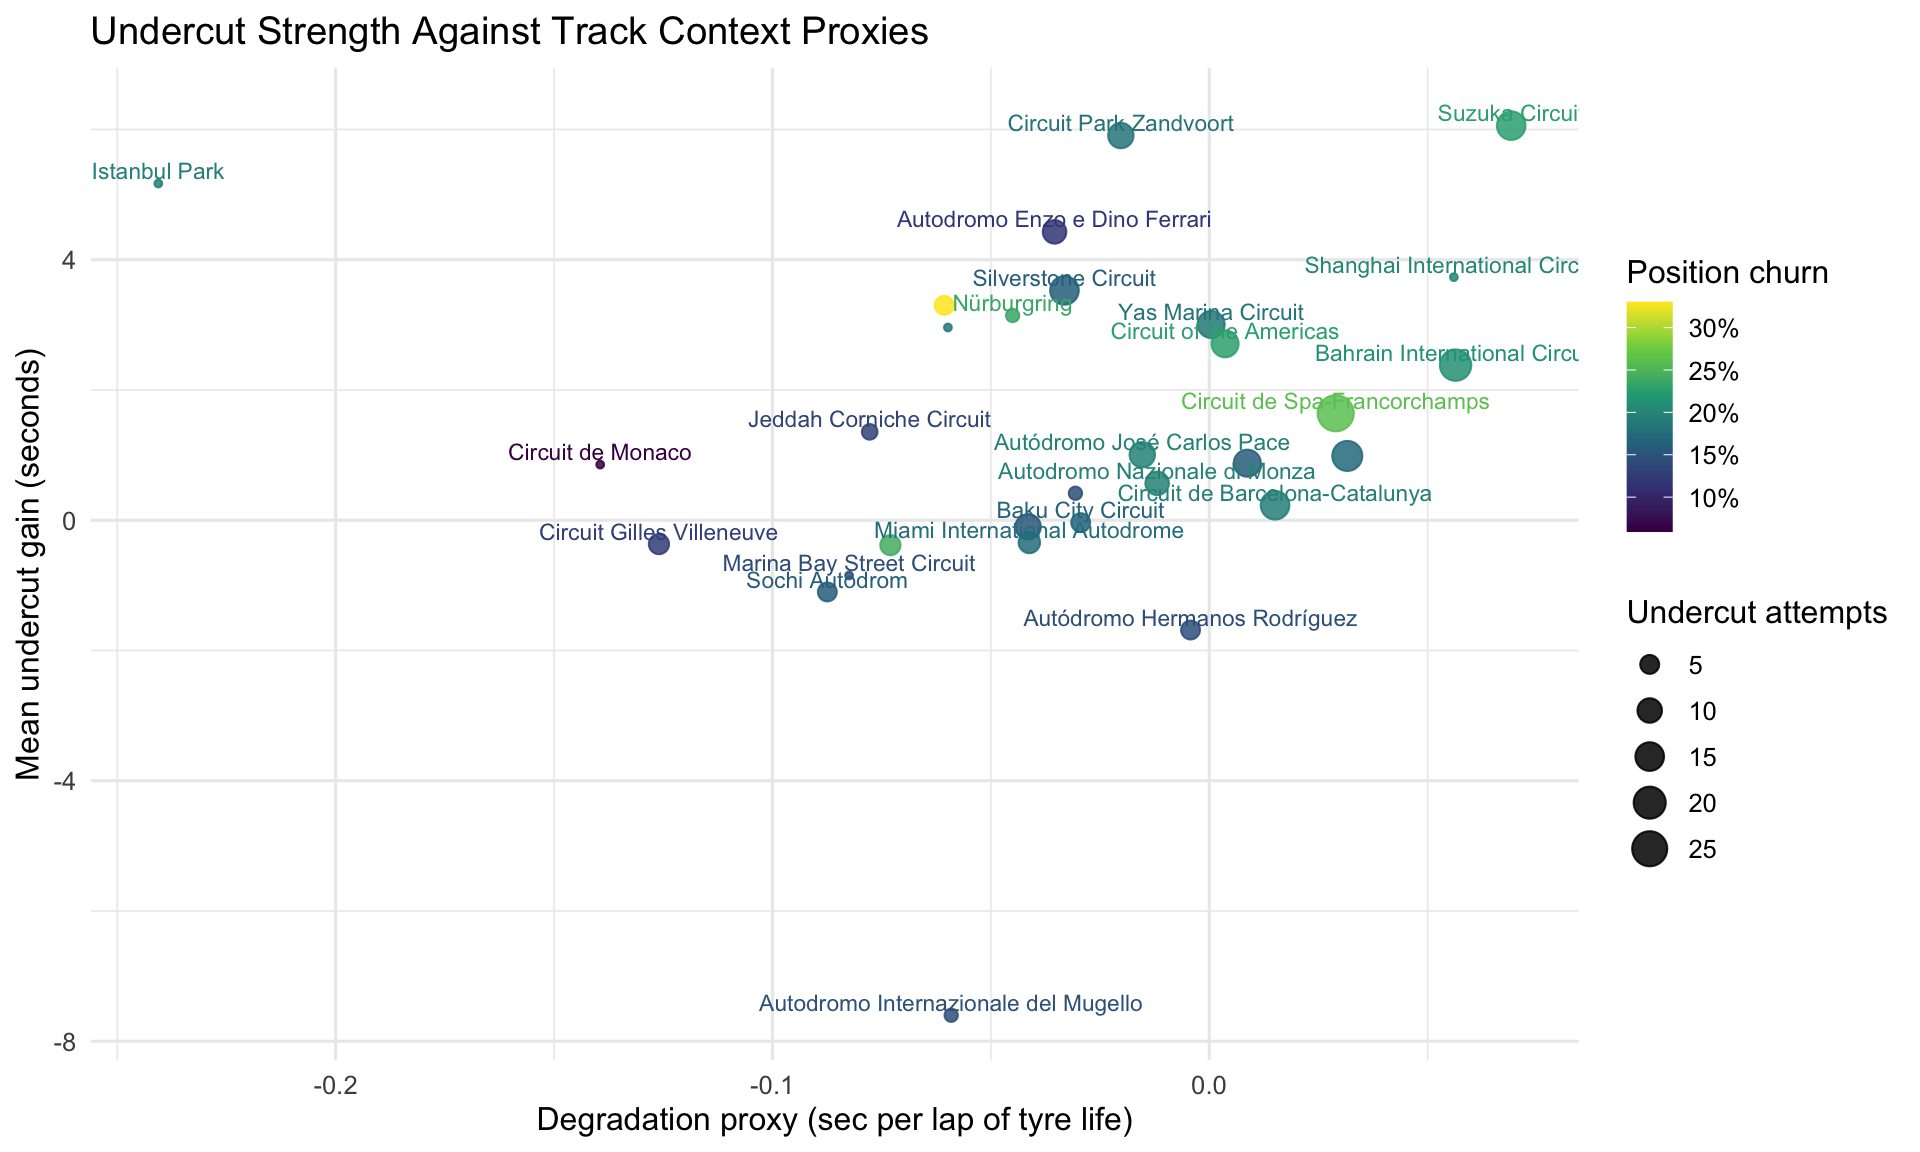
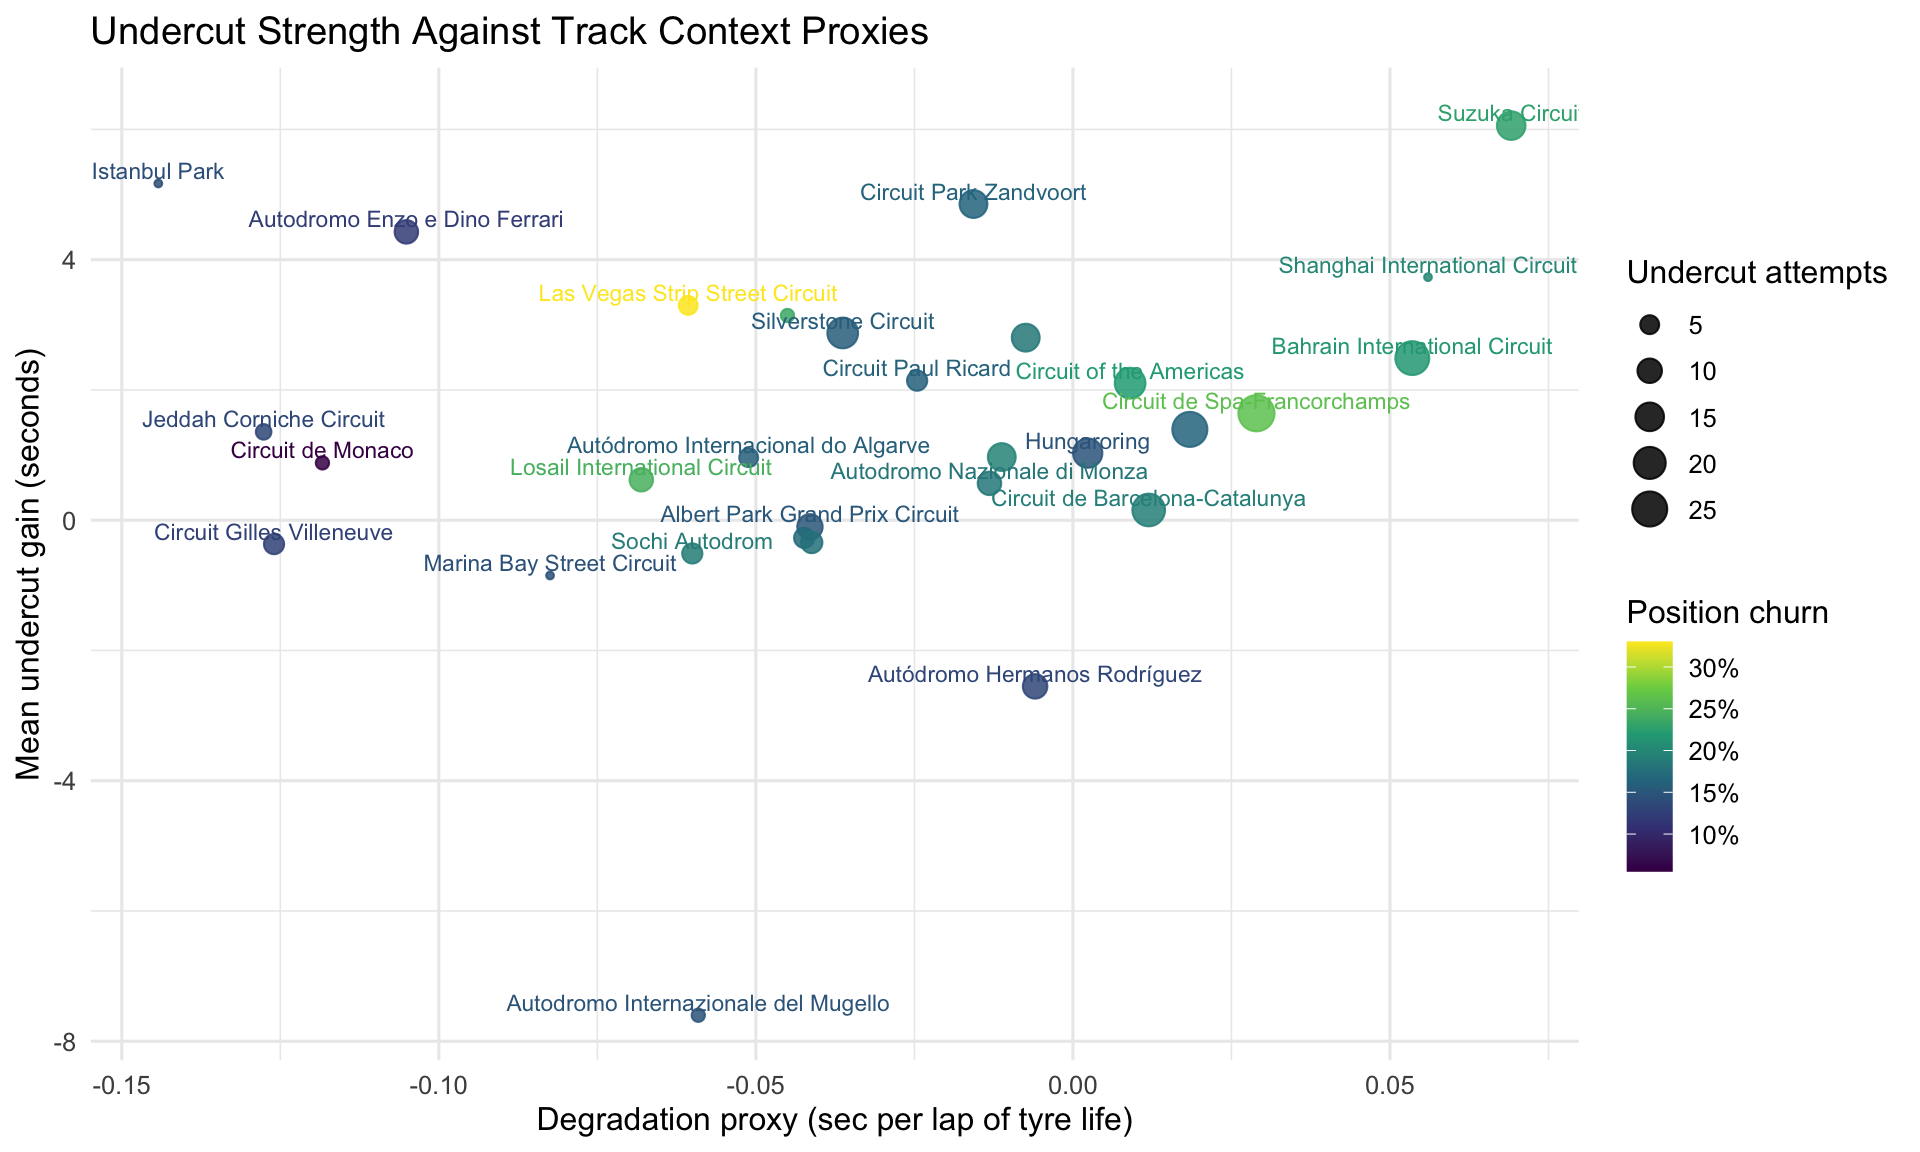
Include 2021 in undercut analysis

diff --git a/README.md b/README.md
@@ -49,7 +49,7 @@ The pipeline:
 
 The notebook is configured for the 2019-2024 seasons. This gives a broader modern-era sample, but it also spans different regulation contexts. The results should be read as broad strategy evidence, not as a perfectly controlled same-car-era comparison.
 
-The current rendered report uses the races available in the local cache. At the time of this render, that includes 2019, 2020, 2022, 2023, and 2024. The 2021 season can be added by setting `cached_races_only <- FALSE` in the R Markdown file and rerunning after the FastF1 API limit resets.
+The current rendered report uses the races available in the local cache. At the time of this render, that includes the full 2019-2024 window.
 
 ## Key Takeaway
 
